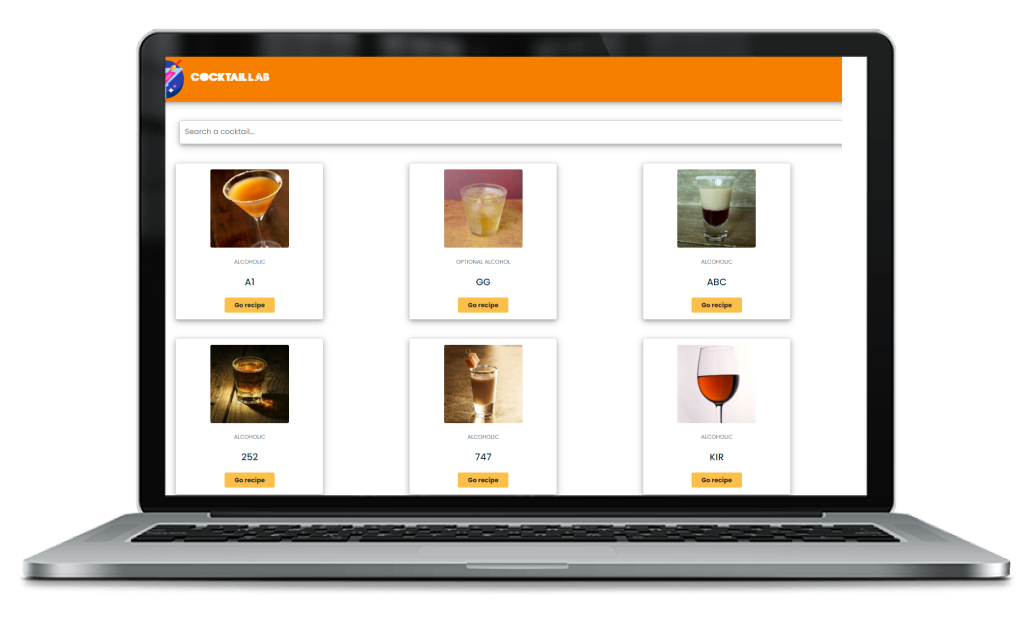
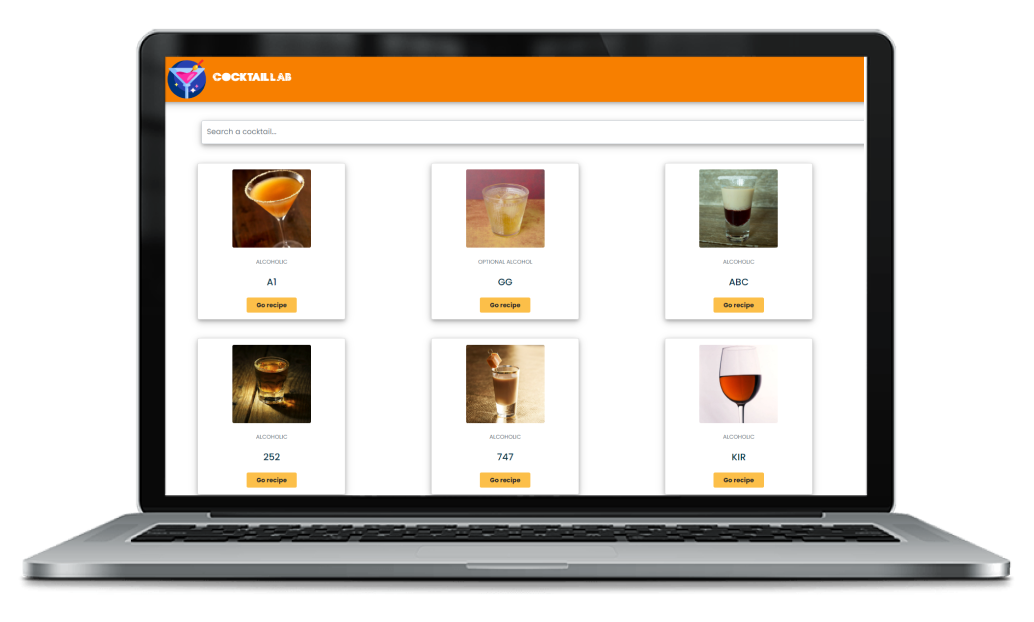
projects update

diff --git a/src/pages/Projects/data.jsx b/src/pages/Projects/data.jsx
@@ -1,8 +1,15 @@
 import Image1 from "../../assets/projects/pokedex.png";
 import Image2 from "../../assets/projects/feedback.png";
 import Image3 from "../../assets/projects/cocktail.png";
-import Image4 from "../../assets/projects/bmi.png";
 import Image5 from "../../assets/projects/color.png";
+import Image6 from "../../assets/projects/rhythm.png";
+import Image7 from "../../assets/projects/publyic.png";
+import Image8 from "../../assets/projects/otp.png";
+import Image9 from "../../assets/projects/whatsapp.png";
+import Image10 from "../../assets/projects/booking.png";
+import Image11 from "../../assets/projects/event.png";
+import Image12 from "../../assets/projects/mtm.png";
+
 import { useContext } from "react";
 import { AppContext } from "../../context";
 
@@ -53,7 +60,7 @@ const DATA = () => {
     {
       id: 6,
       color: "#FA9189",
-      image: Image3,
+      image: Image6,
       title: "Rhythm Radar",
       description: translations["project-rhythm"],
       githubLink: "https://github.com/taylancankose/rhythmradar",
@@ -68,7 +75,7 @@ const DATA = () => {
     {
       id: 7,
       color: "#D6F6FF",
-      image: Image3,
+      image: Image7,
       title: "Publyic",
       description: translations["project-publyic"],
       githubLink: "",
@@ -78,7 +85,7 @@ const DATA = () => {
     {
       id: 8,
       color: "#B3F5BC",
-      image: Image3,
+      image: Image12,
       title: "Meet The Music App & Dashboard",
       description: translations["project-mtm"],
       githubLink: "",
@@ -88,7 +95,7 @@ const DATA = () => {
     {
       id: 9,
       color: "#F9FFB5",
-      image: Image3,
+      image: Image8,
       title: "react native OTP project",
       description: translations["project-OTP"],
       githubLink: "",
@@ -104,7 +111,7 @@ const DATA = () => {
     {
       id: 10,
       color: "#FFE699",
-      image: Image3,
+      image: Image9,
       title: "whatsapp clone",
       description: translations["project-whatsapp"],
       githubLink: "",
@@ -114,7 +121,7 @@ const DATA = () => {
     {
       id: 11,
       color: "#FCAE7C",
-      image: Image3,
+      image: Image10,
       title: "Booking App",
       description: translations["project-booking"],
       githubLink: "",
@@ -131,7 +138,7 @@ const DATA = () => {
     {
       id: 12,
       color: "#E2CBF7",
-      image: Image3,
+      image: Image11,
       title: "Event App",
       description: translations["project-events"],
       githubLink: "",

diff --git a/src/components/ProjectCard/projectcard.css b/src/components/ProjectCard/projectcard.css
@@ -61,7 +61,7 @@
   }
 
   .project__card__image_container > img {
-    width: 300px;
+    height: 225px;
   }
 
   .project__card__links_container {
@@ -76,6 +76,6 @@
 
 @media screen and (max-width: 300px) {
   .project__card__image_container > img {
-    width: 250px;
+    height: 187.5px;
   }
 }

diff --git a/src/components/ProjectCard/index.jsx b/src/components/ProjectCard/index.jsx
@@ -39,7 +39,7 @@ function ProjectCard({ project }) {
         </a>
       </div>
       <div className="project__card__image_container">
-        <img src={project.image} width={400} />
+        <img src={project.image} height={300} />
       </div>
     </div>
   );
